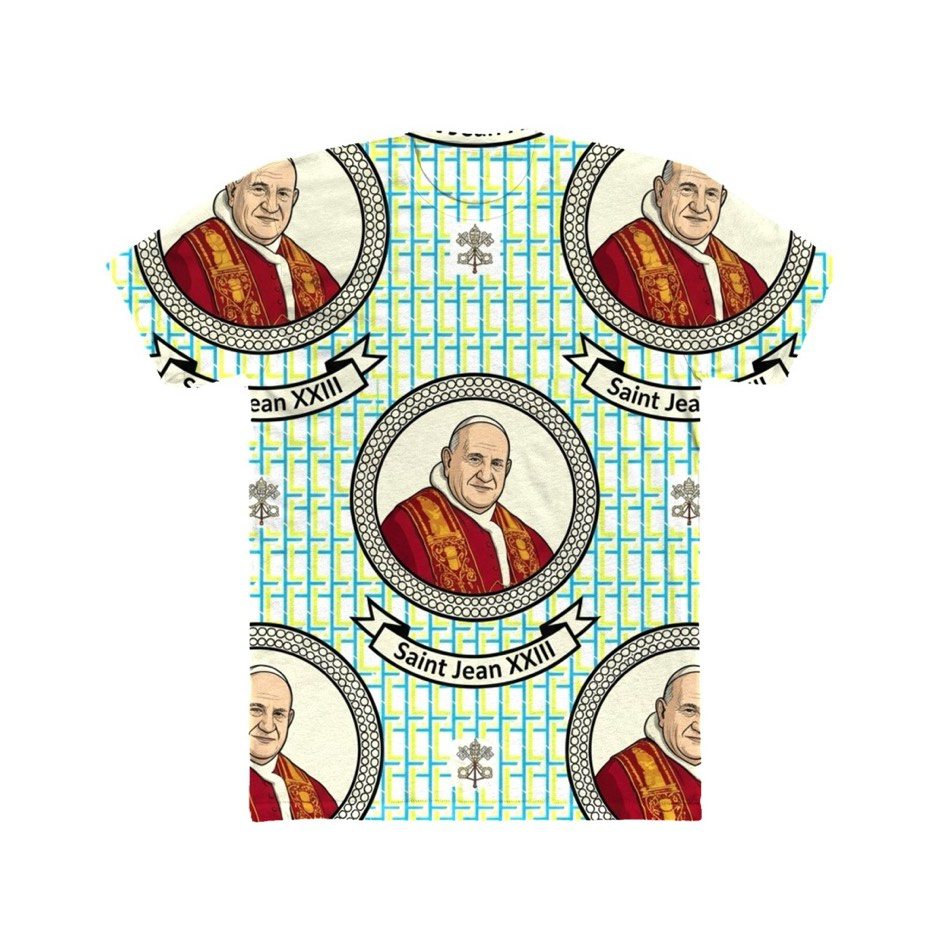
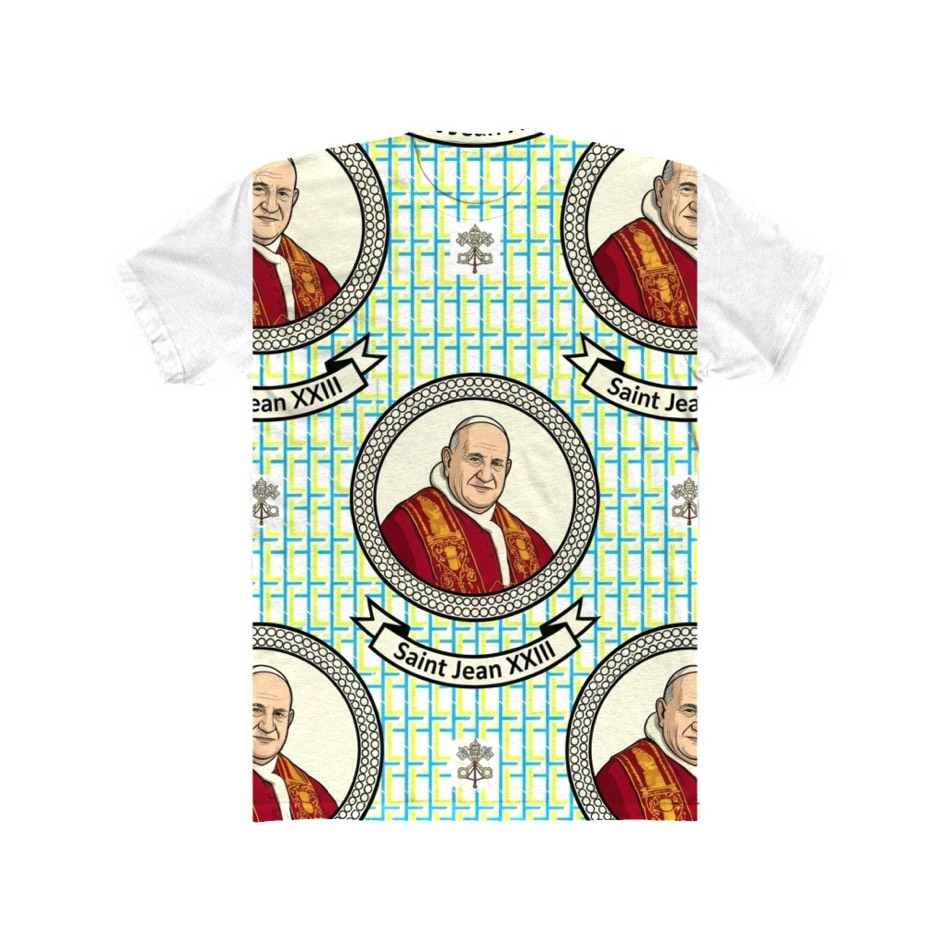
T-shirt Saint Jean XXIII : motif sur le buste, manches blanches

diff --git a/faq.html b/faq.html
@@ -9,7 +9,7 @@
 <link rel="preconnect" href="https://fonts.googleapis.com">
 <link rel="preconnect" href="https://fonts.gstatic.com" crossorigin>
 <link href="https://fonts.googleapis.com/css2?family=Cormorant+Garamond:ital,wght@0,400;0,600;1,400;1,600&family=Inter:wght@400;500;600&family=Lora:ital,wght@0,400;0,600;1,400&display=swap" rel="stylesheet">
-<link rel="stylesheet" href="assets/style.css?v=20260823092523">
+<link rel="stylesheet" href="assets/style.css?v=20260823093234">
 <style>
   .tableau{width:100%;border-collapse:collapse;margin:22px 0;font-size:.95rem;background:#fff;
            border:1px solid var(--bordure);border-radius:10px;overflow:hidden}
@@ -148,11 +148,11 @@
 
 <div id="pied-site"></div>
 
-<script src="assets/config.js?v=20260823092523"></script>
-<script src="assets/liturgie.js?v=20260823092523"></script>
-<script src="assets/data.js?v=20260823092523"></script>
-<script src="assets/mockup.js?v=20260823092523"></script>
-<script src="assets/site.js?v=20260823092523"></script>
+<script src="assets/config.js?v=20260823093234"></script>
+<script src="assets/liturgie.js?v=20260823093234"></script>
+<script src="assets/data.js?v=20260823093234"></script>
+<script src="assets/mockup.js?v=20260823093234"></script>
+<script src="assets/site.js?v=20260823093234"></script>
 <script>
 (function(){
   const l = CFG.livraison;

diff --git a/mentions.html b/mentions.html
@@ -10,7 +10,7 @@
 <link rel="preconnect" href="https://fonts.googleapis.com">
 <link rel="preconnect" href="https://fonts.gstatic.com" crossorigin>
 <link href="https://fonts.googleapis.com/css2?family=Cormorant+Garamond:ital,wght@0,400;0,600;1,400;1,600&family=Inter:wght@400;500;600&family=Lora:ital,wght@0,400;0,600;1,400&display=swap" rel="stylesheet">
-<link rel="stylesheet" href="assets/style.css?v=20260823092523">
+<link rel="stylesheet" href="assets/style.css?v=20260823093234">
 </head>
 <body>
 
@@ -97,11 +97,11 @@
 
 <div id="pied-site"></div>
 
-<script src="assets/config.js?v=20260823092523"></script>
-<script src="assets/liturgie.js?v=20260823092523"></script>
-<script src="assets/data.js?v=20260823092523"></script>
-<script src="assets/mockup.js?v=20260823092523"></script>
-<script src="assets/site.js?v=20260823092523"></script>
+<script src="assets/config.js?v=20260823093234"></script>
+<script src="assets/liturgie.js?v=20260823093234"></script>
+<script src="assets/data.js?v=20260823093234"></script>
+<script src="assets/mockup.js?v=20260823093234"></script>
+<script src="assets/site.js?v=20260823093234"></script>
 <script>
 (function(){
   Site.$("#mail").innerHTML = `<a href="mailto:${CFG.email}">${CFG.email}</a>`;

diff --git a/pain-de-vie.html b/pain-de-vie.html
@@ -14,7 +14,7 @@
 <link rel="preconnect" href="https://fonts.googleapis.com">
 <link rel="preconnect" href="https://fonts.gstatic.com" crossorigin>
 <link href="https://fonts.googleapis.com/css2?family=Cormorant+Garamond:ital,wght@0,400;0,600;1,400;1,600&family=Inter:wght@400;500;600&family=Lora:ital,wght@0,400;0,600;1,400&display=swap" rel="stylesheet">
-<link rel="stylesheet" href="assets/style.css?v=20260823092523">
+<link rel="stylesheet" href="assets/style.css?v=20260823093234">
 </head>
 <body>
 
@@ -135,11 +135,11 @@
 
 <div id="pied-site"></div>
 
-<script src="assets/config.js?v=20260823092523"></script>
-<script src="assets/liturgie.js?v=20260823092523"></script>
-<script src="assets/data.js?v=20260823092523"></script>
-<script src="assets/mockup.js?v=20260823092523"></script>
-<script src="assets/site.js?v=20260823092523"></script>
+<script src="assets/config.js?v=20260823093234"></script>
+<script src="assets/liturgie.js?v=20260823093234"></script>
+<script src="assets/data.js?v=20260823093234"></script>
+<script src="assets/mockup.js?v=20260823093234"></script>
+<script src="assets/site.js?v=20260823093234"></script>
 <script>
 (function(){
   const CLE = "bdm_pdv", CLE_HIST = "bdm_pdv_hist";

diff --git a/produit.html b/produit.html
@@ -9,7 +9,7 @@
 <link rel="preconnect" href="https://fonts.googleapis.com">
 <link rel="preconnect" href="https://fonts.gstatic.com" crossorigin>
 <link href="https://fonts.googleapis.com/css2?family=Cormorant+Garamond:ital,wght@0,400;0,600;1,400;1,600&family=Inter:wght@400;500;600&family=Lora:ital,wght@0,400;0,600;1,400&display=swap" rel="stylesheet">
-<link rel="stylesheet" href="assets/style.css?v=20260823092523">
+<link rel="stylesheet" href="assets/style.css?v=20260823093234">
 </head>
 <body>
 
@@ -32,11 +32,11 @@
 
 <div id="pied-site"></div>
 
-<script src="assets/config.js?v=20260823092523"></script>
-<script src="assets/liturgie.js?v=20260823092523"></script>
-<script src="assets/data.js?v=20260823092523"></script>
-<script src="assets/mockup.js?v=20260823092523"></script>
-<script src="assets/site.js?v=20260823092523"></script>
+<script src="assets/config.js?v=20260823093234"></script>
+<script src="assets/liturgie.js?v=20260823093234"></script>
+<script src="assets/data.js?v=20260823093234"></script>
+<script src="assets/mockup.js?v=20260823093234"></script>
+<script src="assets/site.js?v=20260823093234"></script>
 <script>
 (function(){
   /* les couleurs de la liturgie */

diff --git a/index.html b/index.html
@@ -14,7 +14,7 @@
 <link rel="preconnect" href="https://fonts.googleapis.com">
 <link rel="preconnect" href="https://fonts.gstatic.com" crossorigin>
 <link href="https://fonts.googleapis.com/css2?family=Cormorant+Garamond:ital,wght@0,400;0,600;1,400;1,600&family=Inter:wght@400;500;600&family=Lora:ital,wght@0,400;0,600;1,400&display=swap" rel="stylesheet">
-<link rel="stylesheet" href="assets/style.css?v=20260823092523">
+<link rel="stylesheet" href="assets/style.css?v=20260823093234">
 </head>
 <body>
 
@@ -180,11 +180,11 @@
 
 <div id="pied-site"></div>
 
-<script src="assets/config.js?v=20260823092523"></script>
-<script src="assets/liturgie.js?v=20260823092523"></script>
-<script src="assets/data.js?v=20260823092523"></script>
-<script src="assets/mockup.js?v=20260823092523"></script>
-<script src="assets/site.js?v=20260823092523"></script>
+<script src="assets/config.js?v=20260823093234"></script>
+<script src="assets/liturgie.js?v=20260823093234"></script>
+<script src="assets/data.js?v=20260823093234"></script>
+<script src="assets/mockup.js?v=20260823093234"></script>
+<script src="assets/site.js?v=20260823093234"></script>
 <script>
 (function(){
   const T = LITURGIE.temps();

diff --git a/panier.html b/panier.html
@@ -10,7 +10,7 @@
 <link rel="preconnect" href="https://fonts.googleapis.com">
 <link rel="preconnect" href="https://fonts.gstatic.com" crossorigin>
 <link href="https://fonts.googleapis.com/css2?family=Cormorant+Garamond:ital,wght@0,400;0,600;1,400;1,600&family=Inter:wght@400;500;600&family=Lora:ital,wght@0,400;0,600;1,400&display=swap" rel="stylesheet">
-<link rel="stylesheet" href="assets/style.css?v=20260823092523">
+<link rel="stylesheet" href="assets/style.css?v=20260823093234">
 </head>
 <body>
 
@@ -29,11 +29,11 @@
 
 <div id="pied-site"></div>
 
-<script src="assets/config.js?v=20260823092523"></script>
-<script src="assets/liturgie.js?v=20260823092523"></script>
-<script src="assets/data.js?v=20260823092523"></script>
-<script src="assets/mockup.js?v=20260823092523"></script>
-<script src="assets/site.js?v=20260823092523"></script>
+<script src="assets/config.js?v=20260823093234"></script>
+<script src="assets/liturgie.js?v=20260823093234"></script>
+<script src="assets/data.js?v=20260823093234"></script>
+<script src="assets/mockup.js?v=20260823093234"></script>
+<script src="assets/site.js?v=20260823093234"></script>
 <script>
 (function(){
   const P = Site.Panier;

diff --git a/boutique.html b/boutique.html
@@ -9,7 +9,7 @@
 <link rel="preconnect" href="https://fonts.googleapis.com">
 <link rel="preconnect" href="https://fonts.gstatic.com" crossorigin>
 <link href="https://fonts.googleapis.com/css2?family=Cormorant+Garamond:ital,wght@0,400;0,600;1,400;1,600&family=Inter:wght@400;500;600&family=Lora:ital,wght@0,400;0,600;1,400&display=swap" rel="stylesheet">
-<link rel="stylesheet" href="assets/style.css?v=20260823092523">
+<link rel="stylesheet" href="assets/style.css?v=20260823093234">
 </head>
 <body>
 
@@ -47,11 +47,11 @@
 
 <div id="pied-site"></div>
 
-<script src="assets/config.js?v=20260823092523"></script>
-<script src="assets/liturgie.js?v=20260823092523"></script>
-<script src="assets/data.js?v=20260823092523"></script>
-<script src="assets/mockup.js?v=20260823092523"></script>
-<script src="assets/site.js?v=20260823092523"></script>
+<script src="assets/config.js?v=20260823093234"></script>
+<script src="assets/liturgie.js?v=20260823093234"></script>
+<script src="assets/data.js?v=20260823093234"></script>
+<script src="assets/mockup.js?v=20260823093234"></script>
+<script src="assets/site.js?v=20260823093234"></script>
 <script>
 (function(){
   const CATS = [

diff --git a/contact.html b/contact.html
@@ -9,7 +9,7 @@
 <link rel="preconnect" href="https://fonts.googleapis.com">
 <link rel="preconnect" href="https://fonts.gstatic.com" crossorigin>
 <link href="https://fonts.googleapis.com/css2?family=Cormorant+Garamond:ital,wght@0,400;0,600;1,400;1,600&family=Inter:wght@400;500;600&family=Lora:ital,wght@0,400;0,600;1,400&display=swap" rel="stylesheet">
-<link rel="stylesheet" href="assets/style.css?v=20260823092523">
+<link rel="stylesheet" href="assets/style.css?v=20260823093234">
 </head>
 <body>
 
@@ -73,11 +73,11 @@
 
 <div id="pied-site"></div>
 
-<script src="assets/config.js?v=20260823092523"></script>
-<script src="assets/liturgie.js?v=20260823092523"></script>
-<script src="assets/data.js?v=20260823092523"></script>
-<script src="assets/mockup.js?v=20260823092523"></script>
-<script src="assets/site.js?v=20260823092523"></script>
+<script src="assets/config.js?v=20260823093234"></script>
+<script src="assets/liturgie.js?v=20260823093234"></script>
+<script src="assets/data.js?v=20260823093234"></script>
+<script src="assets/mockup.js?v=20260823093234"></script>
+<script src="assets/site.js?v=20260823093234"></script>
 <script>
 (function(){
   const c = [];

diff --git a/a-propos.html b/a-propos.html
@@ -9,7 +9,7 @@
 <link rel="preconnect" href="https://fonts.googleapis.com">
 <link rel="preconnect" href="https://fonts.gstatic.com" crossorigin>
 <link href="https://fonts.googleapis.com/css2?family=Cormorant+Garamond:ital,wght@0,400;0,600;1,400;1,600&family=Inter:wght@400;500;600&family=Lora:ital,wght@0,400;0,600;1,400&display=swap" rel="stylesheet">
-<link rel="stylesheet" href="assets/style.css?v=20260823092523">
+<link rel="stylesheet" href="assets/style.css?v=20260823093234">
 </head>
 <body>
 
@@ -37,10 +37,10 @@
 
 <div id="pied-site"></div>
 
-<script src="assets/config.js?v=20260823092523"></script>
-<script src="assets/liturgie.js?v=20260823092523"></script>
-<script src="assets/data.js?v=20260823092523"></script>
-<script src="assets/mockup.js?v=20260823092523"></script>
-<script src="assets/site.js?v=20260823092523"></script>
+<script src="assets/config.js?v=20260823093234"></script>
+<script src="assets/liturgie.js?v=20260823093234"></script>
+<script src="assets/data.js?v=20260823093234"></script>
+<script src="assets/mockup.js?v=20260823093234"></script>
+<script src="assets/site.js?v=20260823093234"></script>
 </body>
 </html>

diff --git a/assets/data.js b/assets/data.js
@@ -439,8 +439,8 @@ window.PRODUITS = [
     nom:"T-shirt Saint Jean XXIII",
     cat:"tshirt",
     prix:32,
-    resume:"Le motif du bandana, sur tout le t-shirt.",
-    desc:"Le portrait de saint Jean XXIII en médaillons, sur le damier bleu et jaune aux clés de saint Pierre. Le motif couvre tout le vêtement, devant comme dos, exactement comme notre bandana : les deux se portent ensemble.",
+    resume:"Le motif du bandana, sur tout le buste.",
+    desc:"Le portrait de saint Jean XXIII en médaillons, sur le damier bleu et jaune aux clés de saint Pierre. Le motif couvre le buste, devant comme dos ; les manches restent blanches. Même dessin que notre bandana : les deux se portent ensemble.",
     mockup:{ type:"photo", image:"assets/img/tee-motif-jean-xxiii.jpg" },
     couleurs:["blanc"],
     tailles:["S","M","L","XL","2XL"],
